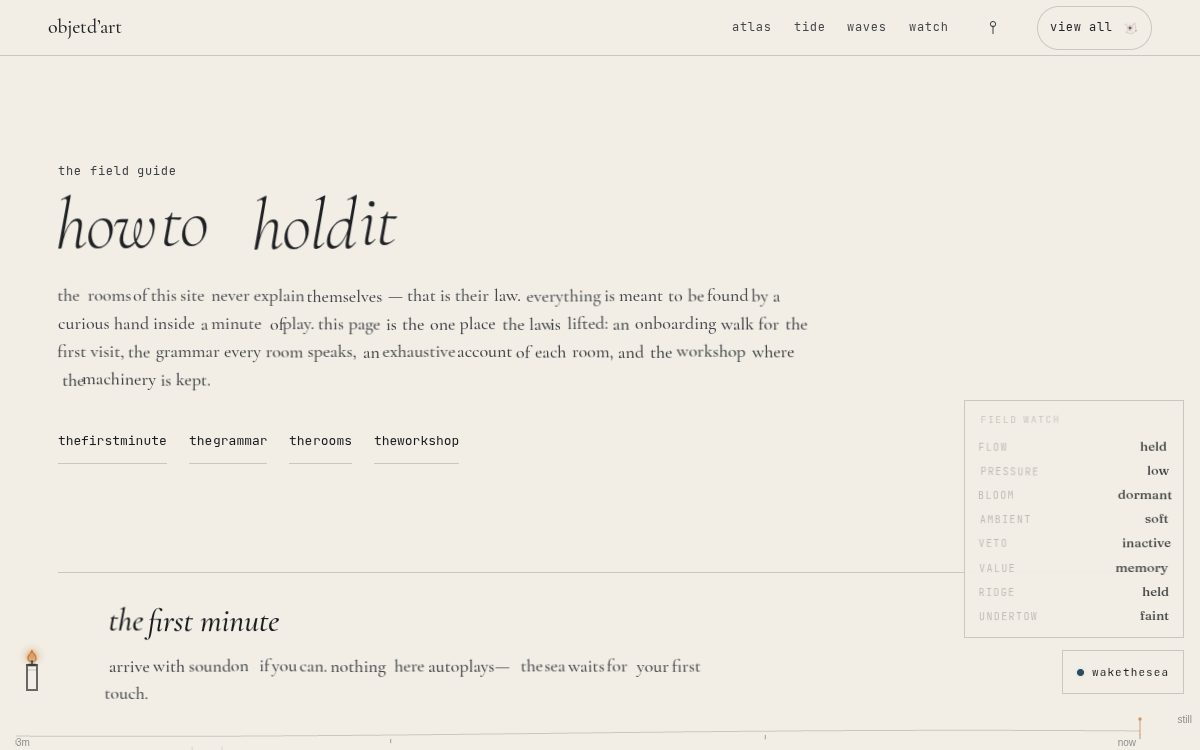
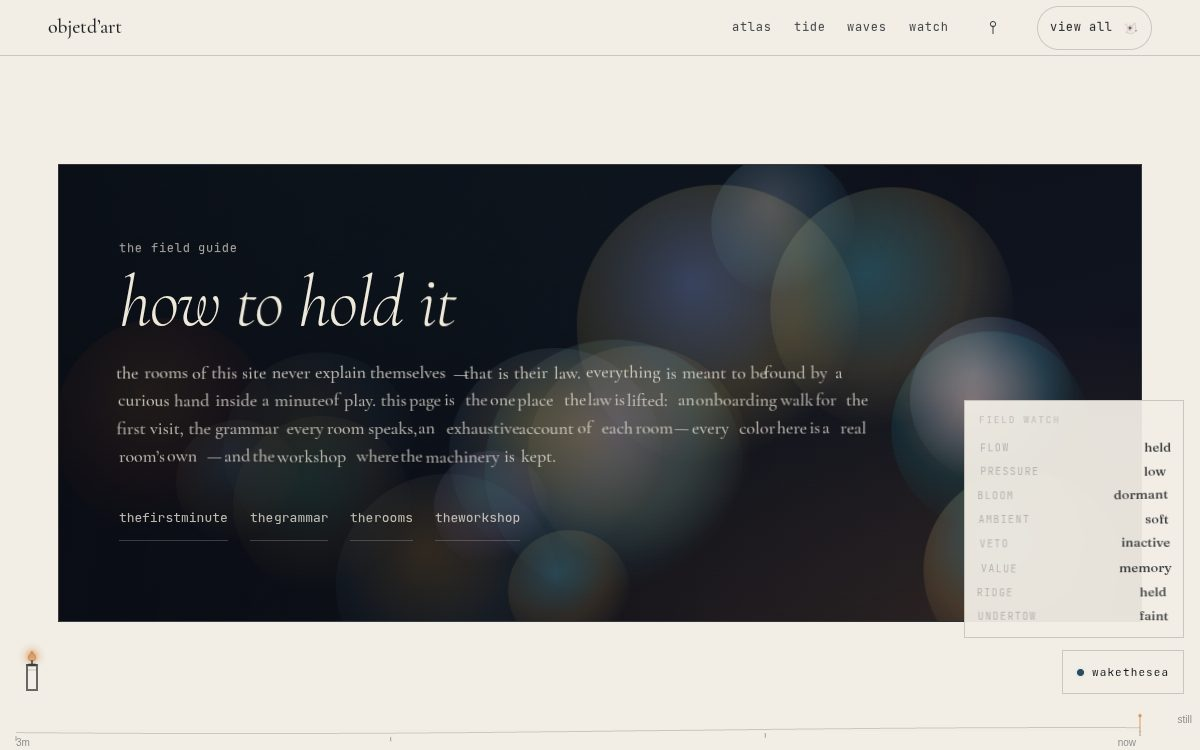
feat(guide): color the hero — a real room instance, not tan paper
The guide's face was too quiet for what it's introducing. The hero now
opens as a dark, living panel: a breathing bokeh of every room's own
palette (sampled straight from site-icon-config.ts, screen-blended so
overlaps stay vivid instead of muddying to brown), with a left-side
scrim keeping the copy legible regardless of what colors land behind it.
Pure CSS (radial-gradient spots, transform/opacity keyframes) — no
canvas, no per-frame JS, reduced-motion freezes it without hiding it.

The exhaustive room list also picks up each room's real accent as a
left border and a small dot next to its title, so "the rooms" section
reads as 46 distinct places instead of one long list on cream paper.
The onboarding/grammar/workshop sections keep their plain reading
treatment — the ask was to dress the front door, not bury the text.

New: src/lib/guide-aurora.ts (deterministic palette + spot layout,
tested for determinism and bounds in test-guide.mjs — no Math.random,
no Date.now).

Claude-Session: https://claude.ai/code/session_01XcaqUVRgLb8D2htbvNioXM

diff --git a/src/components/Guide.tsx b/src/components/Guide.tsx
@@ -12,6 +12,7 @@ import {
   type GuideRoom,
 } from "@/data/guide";
 import { SITE_ROUTE_BY_KEY } from "@/lib/routes";
+import { auroraSpots, hexToRgba, resolveRoomPalette } from "@/lib/guide-aurora";
 
 // The one sanctioned reading surface where the site explains itself
 // (AGENTS.md, "the documentation law"). The rooms never explain; this page
@@ -38,27 +39,51 @@ export default function Guide() {
     rooms: GUIDE_ROOMS.filter((room) => clusterOf(room) === cluster),
   })).filter((group) => group.rooms.length > 0);
 
+  const spots = auroraSpots(GUIDE_ROOMS.map((room) => room.key));
+
   return (
     <div className="guide">
-      {/* threshold */}
+      {/* threshold — a room of its own: the album's full palette, breathing */}
       <header className="guide-hero">
-        <p className="t-eyebrow">the field guide</p>
-        <h1 className="t-h1 guide-hero-title">
-          <em>how to hold it</em>
-        </h1>
-        <p className="t-body guide-lede">
-          the rooms of this site never explain themselves — that is their law. everything is
-          meant to be found by a curious hand inside a minute of play. this page is the one
-          place the law is lifted: an onboarding walk for the first visit, the grammar every
-          room speaks, an exhaustive account of each room, and the workshop where the
-          machinery is kept.
-        </p>
-        <nav className="guide-toc t-mono" aria-label="guide sections">
-          <a href="#first-minute">the first minute</a>
-          <a href="#grammar">the grammar</a>
-          <a href="#rooms">the rooms</a>
-          <a href="#workshop">the workshop</a>
-        </nav>
+        <div className="guide-hero-room">
+          <div className="guide-aurora" aria-hidden="true">
+            {spots.map((spot) => (
+              <span
+                key={spot.key}
+                className="guide-aurora-spot"
+                style={{
+                  left: `${spot.leftPct}%`,
+                  top: `${spot.topPct}%`,
+                  width: spot.sizePx,
+                  height: spot.sizePx,
+                  background: `radial-gradient(circle at 40% 35%, ${hexToRgba(spot.color, 0.55)}, ${hexToRgba(spot.color2, 0.28)} 45%, transparent 72%)`,
+                  animationDelay: `${spot.delayMs}ms`,
+                  animationDuration: `${spot.durationMs}ms`,
+                }}
+              />
+            ))}
+          </div>
+          <div className="guide-hero-scrim" aria-hidden="true" />
+          <div className="guide-hero-text">
+            <p className="t-eyebrow guide-hero-eyebrow">the field guide</p>
+            <h1 className="t-h1 guide-hero-title">
+              <em>how to hold it</em>
+            </h1>
+            <p className="t-body guide-lede">
+              the rooms of this site never explain themselves — that is their law. everything
+              is meant to be found by a curious hand inside a minute of play. this page is the
+              one place the law is lifted: an onboarding walk for the first visit, the grammar
+              every room speaks, an exhaustive account of each room — every color here is a
+              real room&rsquo;s own — and the workshop where the machinery is kept.
+            </p>
+            <nav className="guide-toc t-mono" aria-label="guide sections">
+              <a href="#first-minute">the first minute</a>
+              <a href="#grammar">the grammar</a>
+              <a href="#rooms">the rooms</a>
+              <a href="#workshop">the workshop</a>
+            </nav>
+          </div>
+        </div>
       </header>
 
       {/* onboarding */}
@@ -129,8 +154,19 @@ export default function Guide() {
         {grouped.map((group) => (
           <div key={group.cluster} className="guide-cluster">
             <h3 className="t-eyebrow guide-cluster-title">{CLUSTER_LABELS[group.cluster]}</h3>
-            {group.rooms.map((room) => (
-              <article key={room.key} id={`room-${room.key}`} className="guide-room">
+            {group.rooms.map((room) => {
+              const palette = resolveRoomPalette(room.key);
+              return (
+              <article
+                key={room.key}
+                id={`room-${room.key}`}
+                className="guide-room"
+                style={{
+                  "--room-glow": palette.glow,
+                  "--room-accent2": palette.accent2,
+                  "--room-border": hexToRgba(palette.glow, 0.55),
+                } as React.CSSProperties}
+              >
                 <div className="guide-room-shot">
                   <Link href={room.href} aria-label={`enter ${room.title}`}>
                     <Image
@@ -145,6 +181,7 @@ export default function Guide() {
                 </div>
                 <div className="guide-room-text">
                   <header className="guide-room-head">
+                    <span className="guide-room-dot" aria-hidden="true" />
                     <h4 className="t-h3 guide-room-title">
                       <em>{room.title}</em>
                     </h4>
@@ -176,7 +213,8 @@ export default function Guide() {
                   ) : null}
                 </div>
               </article>
-            ))}
+              );
+            })}
           </div>
         ))}
       </section>
@@ -237,9 +275,58 @@ export default function Guide() {
   padding: var(--pad-y) var(--pad-x);
 }
 .guide a { transition: color var(--t); }
-.guide-hero { max-width: 760px; }
-.guide-hero-title { margin: 10px 0 18px; }
-.guide-lede { color: var(--ink-2); }
+.guide-hero { max-width: 100%; }
+.guide-hero-room {
+  position: relative;
+  overflow: hidden;
+  isolation: isolate;
+  background:
+    radial-gradient(120% 160% at 12% -10%, rgba(79, 183, 200, 0.16), transparent 55%),
+    radial-gradient(130% 140% at 92% 118%, rgba(231, 185, 78, 0.14), transparent 60%),
+    linear-gradient(165deg, #0a0e17 0%, #10141f 55%, #140f1c 100%);
+  border: 1px solid rgba(232, 226, 213, 0.14);
+  padding: clamp(40px, 7vw, 76px) clamp(24px, 5vw, 64px) clamp(44px, 7vw, 80px);
+}
+.guide-aurora {
+  position: absolute;
+  inset: 0;
+  z-index: 0;
+  pointer-events: none;
+}
+.guide-aurora-spot {
+  position: absolute;
+  margin-left: -60px;
+  margin-top: -60px;
+  border-radius: 50%;
+  opacity: 0.68;
+  mix-blend-mode: screen;
+  animation: guide-breathe 7s ease-in-out infinite;
+  will-change: transform, opacity;
+}
+@keyframes guide-breathe {
+  0%, 100% { transform: scale(0.92); opacity: 0.5; }
+  50% { transform: scale(1.08); opacity: 0.8; }
+}
+@media (prefers-reduced-motion: reduce) {
+  .guide-aurora-spot { animation: none; opacity: 0.55; }
+}
+.guide-hero-scrim {
+  position: absolute;
+  inset: 0;
+  z-index: 0;
+  background: linear-gradient(
+    100deg,
+    rgba(9, 12, 19, 0.86) 0%,
+    rgba(9, 12, 19, 0.62) 38%,
+    rgba(9, 12, 19, 0.22) 62%,
+    transparent 82%
+  );
+  pointer-events: none;
+}
+.guide-hero-text { position: relative; z-index: 1; max-width: 760px; }
+.guide-hero-eyebrow { color: rgba(232, 226, 213, 0.72); }
+.guide-hero-title { margin: 10px 0 18px; color: rgba(244, 238, 222, 0.98); }
+.guide-lede { color: rgba(232, 226, 213, 0.82); }
 .guide-toc {
   display: flex;
   flex-wrap: wrap;
@@ -251,7 +338,8 @@ export default function Guide() {
   min-height: 44px;
   display: inline-flex;
   align-items: center;
-  border-bottom: 1px solid var(--rule);
+  color: rgba(232, 226, 213, 0.86);
+  border-bottom: 1px solid rgba(232, 226, 213, 0.22);
 }
 .guide-toc a:hover { color: var(--candle); border-bottom-color: var(--candle); }
 .guide-section {
@@ -311,26 +399,34 @@ export default function Guide() {
   display: grid;
   grid-template-columns: minmax(0, 460px) 1fr;
   gap: clamp(18px, 3vw, 36px);
-  padding: 30px 0;
+  padding: 30px 0 30px 18px;
   border-top: 1px solid var(--rule);
+  border-left: 3px solid var(--room-border, var(--rule));
   align-items: start;
 }
 .guide-room-shot img {
   width: 100%;
   height: auto;
   display: block;
-  border: 1px solid var(--rule);
+  border: 1px solid var(--room-border, var(--rule));
 }
 .guide-room-shot { position: sticky; top: 84px; }
 .guide-room-head {
   display: flex;
   flex-wrap: wrap;
   align-items: baseline;
-  gap: 6px 16px;
+  gap: 6px 12px;
+}
+.guide-room-dot {
+  width: 9px;
+  height: 9px;
+  border-radius: 50%;
+  background: linear-gradient(135deg, var(--room-glow), var(--room-accent2));
+  flex: none;
 }
 .guide-room-title { margin: 0; font-size: 26px; }
 .guide-room-href { font-size: 12px; color: var(--ink-2); }
-.guide-room-href:hover { color: var(--candle); }
+.guide-room-href:hover { color: var(--room-glow, var(--candle)); }
 .guide-room-scale { font-size: 11px; letter-spacing: 0.05em; color: var(--sea); margin-top: 6px; }
 .guide-room-essence { margin-top: 10px; color: var(--ink-2); font-style: italic; }
 .guide-moves { list-style: none; margin: 16px 0 0; padding: 0; }
@@ -356,9 +452,10 @@ export default function Guide() {
 .guide-api-line { font-size: 15px; color: var(--ink-2); margin-top: 4px; }
 .guide-api-line .t-mono { font-size: 11px; letter-spacing: 0.06em; }
 @media (max-width: 760px) {
-  .guide-room { grid-template-columns: 1fr; }
+  .guide-room { grid-template-columns: 1fr; padding-left: 14px; }
   .guide-room-shot { position: static; }
   .guide-moves li { grid-template-columns: 1fr; gap: 2px; }
+  .guide-hero-room { padding: 40px 20px 46px; }
 }
 `,
         }}

diff --git a/src/lib/guide-aurora.ts b/src/lib/guide-aurora.ts
@@ -1,0 +1,106 @@
+// Color for the field guide's hero, drawn from the album's own palette —
+// every room already carries a bg/glow/accent set in site-icon-config.ts.
+// The hero doesn't invent color; it samples the rooms that already have it.
+// Deterministic from the route key (no Math.random, no Date.now), so the
+// guide's face looks the same on every visit until a room's palette changes.
+
+import { SITE_ICON_VISUALS, type SiteIconKey } from "@/lib/site-icon-config";
+
+export type RoomPalette = {
+  bg: string;
+  bg2: string;
+  glow: string;
+  accent: string;
+  accent2: string;
+};
+
+// A handful of guide entries document routes that share metadata with a
+// sibling room and have no icon entry of their own (see src/app/*/layout.tsx
+// siteMetadata() calls). Borrow the same donor here.
+const PALETTE_FALLBACK: Record<string, SiteIconKey> = {
+  timbre: "signal",
+  instrument: "signal",
+  "music-color": "light",
+  drop: "jewel",
+};
+
+export function resolveRoomPalette(key: string): RoomPalette {
+  const iconKey = (key in SITE_ICON_VISUALS ? key : PALETTE_FALLBACK[key] ?? "home") as SiteIconKey;
+  const visual = SITE_ICON_VISUALS[iconKey];
+  return { bg: visual.bg, bg2: visual.bg2, glow: visual.glow, accent: visual.accent, accent2: visual.accent2 };
+}
+
+/** "#rrggbb" → "rgba(r, g, b, alpha)". Falls back to opaque on a bad hex. */
+export function hexToRgba(hex: string, alpha: number): string {
+  const match = /^#?([0-9a-f]{6})$/i.exec(hex);
+  if (!match) return hex;
+  const value = parseInt(match[1], 16);
+  const r = (value >> 16) & 255;
+  const g = (value >> 8) & 255;
+  const b = value & 255;
+  return `rgba(${r}, ${g}, ${b}, ${alpha})`;
+}
+
+function hashString(value: string): number {
+  let hash = 2166136261;
+  for (let index = 0; index < value.length; index += 1) {
+    hash ^= value.charCodeAt(index);
+    hash = Math.imul(hash, 16777619);
+  }
+  return hash >>> 0;
+}
+
+function mulberry32(seed: number): () => number {
+  let a = seed >>> 0;
+  return () => {
+    a = (a + 0x6d2b79f5) >>> 0;
+    let t = a;
+    t = Math.imul(t ^ (t >>> 15), t | 1);
+    t ^= t + Math.imul(t ^ (t >>> 7), t | 61);
+    return ((t ^ (t >>> 14)) >>> 0) / 4294967296;
+  };
+}
+
+export type AuroraSpot = {
+  key: string;
+  leftPct: number;
+  topPct: number;
+  sizePx: number;
+  color: string;
+  color2: string;
+  delayMs: number;
+  durationMs: number;
+};
+
+const BREATH_MS = 7000; // the site's one shared clock (AGENTS.md: "one clock family")
+
+/**
+ * Lays out one breathing color spot per room key, sampled evenly if there
+ * are more keys than `max`. Pure function of the key order — same input,
+ * same layout, always.
+ */
+export function auroraSpots(keys: string[], max = 20): AuroraSpot[] {
+  if (keys.length === 0) return [];
+  const stride = Math.max(1, Math.ceil(keys.length / max));
+  const sampled = keys.filter((_, index) => index % stride === 0);
+
+  return sampled.map((key, index) => {
+    const rng = mulberry32(hashString(key) ^ 0x9e3779b1);
+    const palette = resolveRoomPalette(key);
+    const leftPct = 4 + rng() * 92;
+    const topPct = 6 + rng() * 88;
+    const sizePx = 90 + rng() * 210;
+    const durationMs = BREATH_MS * (1 + Math.floor(rng() * 2)); // 7s or 14s, still the one family
+    const delayMs = Math.round((index / sampled.length) * BREATH_MS);
+    return {
+      key,
+      leftPct,
+      topPct,
+      sizePx,
+      color: palette.glow,
+      color2: palette.accent2,
+      delayMs,
+      durationMs,
+    };
+  });
+}
